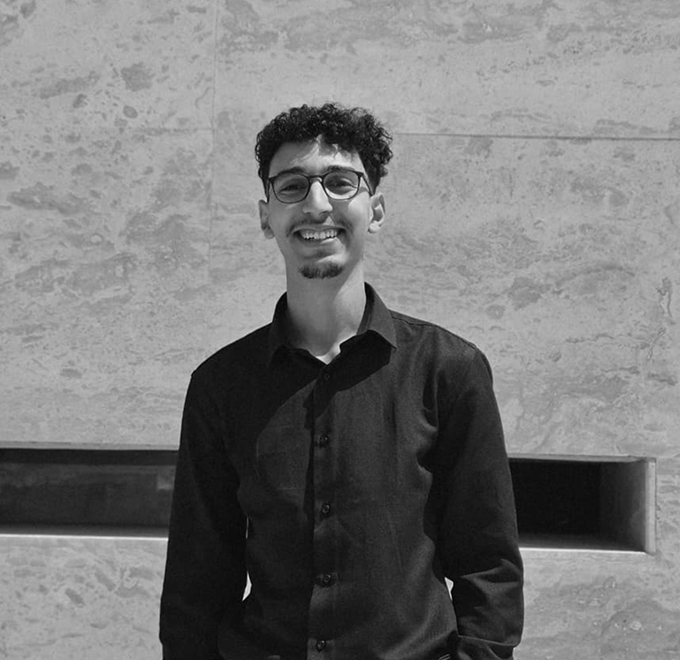
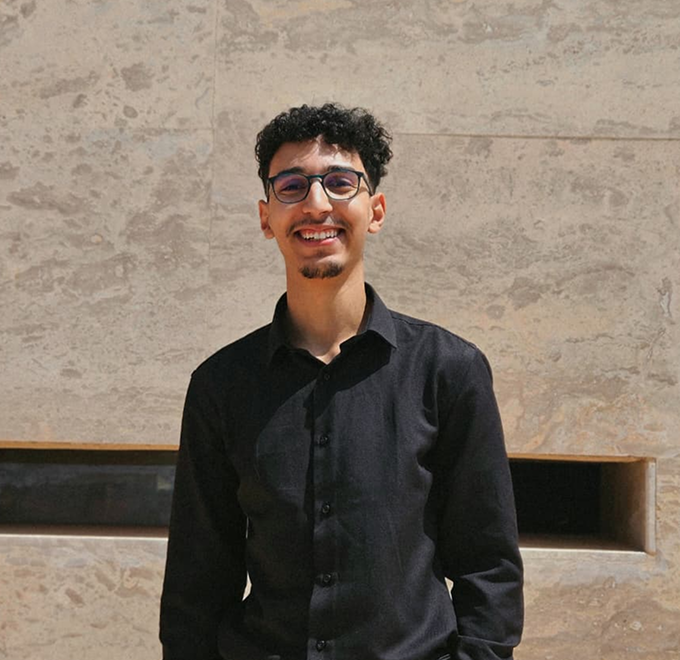
feat: Enhance About section image interaction and update close button with SVG

diff --git a/components/ImageModel.jsx b/components/ImageModel.jsx
@@ -13,10 +13,23 @@ const ImageModal = ({ isOpen, src, alt, onClose }) => {
         onClick={(e) => e.stopPropagation()}
       >
         <button
-          className="absolute top-4 right-4 z-10 bg-black bg-opacity-50 rounded-full p-2 text-white hover:bg-opacity-70 transition-all"
+          className="absolute top-4 right-4 z-10 bg-black bg-opacity-50 rounded-full p-2 text-white hover:bg-opacity-70 transition-all cursor-pointer"
           onClick={onClose}
         >
-          ✕
+          <svg
+            xmlns="http://www.w3.org/2000/svg"
+            className="h-6 w-6"
+            fill="none"
+            viewBox="0 0 24 24"
+            stroke="currentColor"
+          >
+            <path
+              strokeLinecap="round"
+              strokeLinejoin="round"
+              strokeWidth={2}
+              d="M6 18L18 6M6 6l12 12"
+            />
+          </svg>
         </button>
         <div className="relative w-full h-[80vh]">
           <img

diff --git a/app/sections/About.jsx b/app/sections/About.jsx
@@ -42,7 +42,7 @@ const About = () => {
             src="/me.png"
             alt="Zakaria Ahrbil"
             onClick={() => setIsModalOpen(true)}
-            className=" sm:h-48  h-20   cursor-pointer  rounded-md max-sm:rounded-full hover:opacity-90 transition-opacity "
+            className=" sm:h-48  h-20   cursor-pointer  rounded-md max-sm:rounded-full hover:opacity-90 transition-all mix-blend-luminosity hover:mix-blend-normal duration-500 ease-in-out"
           />
 
           <ImageModal
